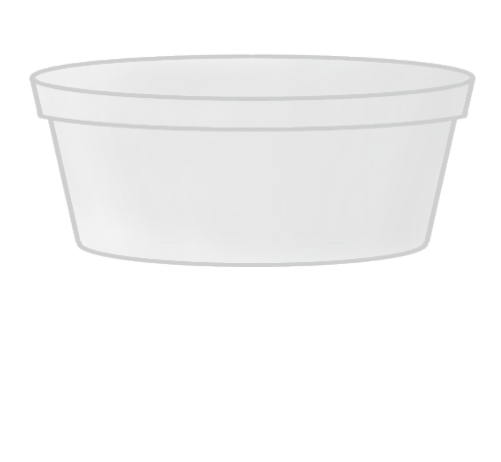
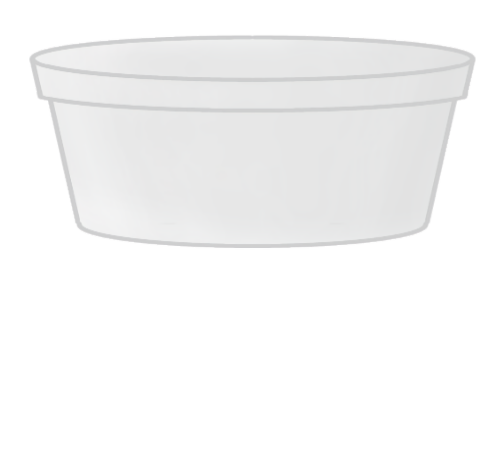
sprinkle/cup margin layer fix

diff --git a/src/components/Game.jsx b/src/components/Game.jsx
@@ -164,7 +164,7 @@ function Game({score, setScore}) {
                     60}  //scoops, cups -> default
             style={{marginBottom:  //make the items layer ontop of each other nicley
               syrups.includes(item) ? '-32px':
-              item === 'sprinkles' ? '-44px':
+              item === 'sprinkles' ? '-31px':
               toppings.includes(item) ? '-17px':
               '-12px'  //scoops, cups -> default
             }}